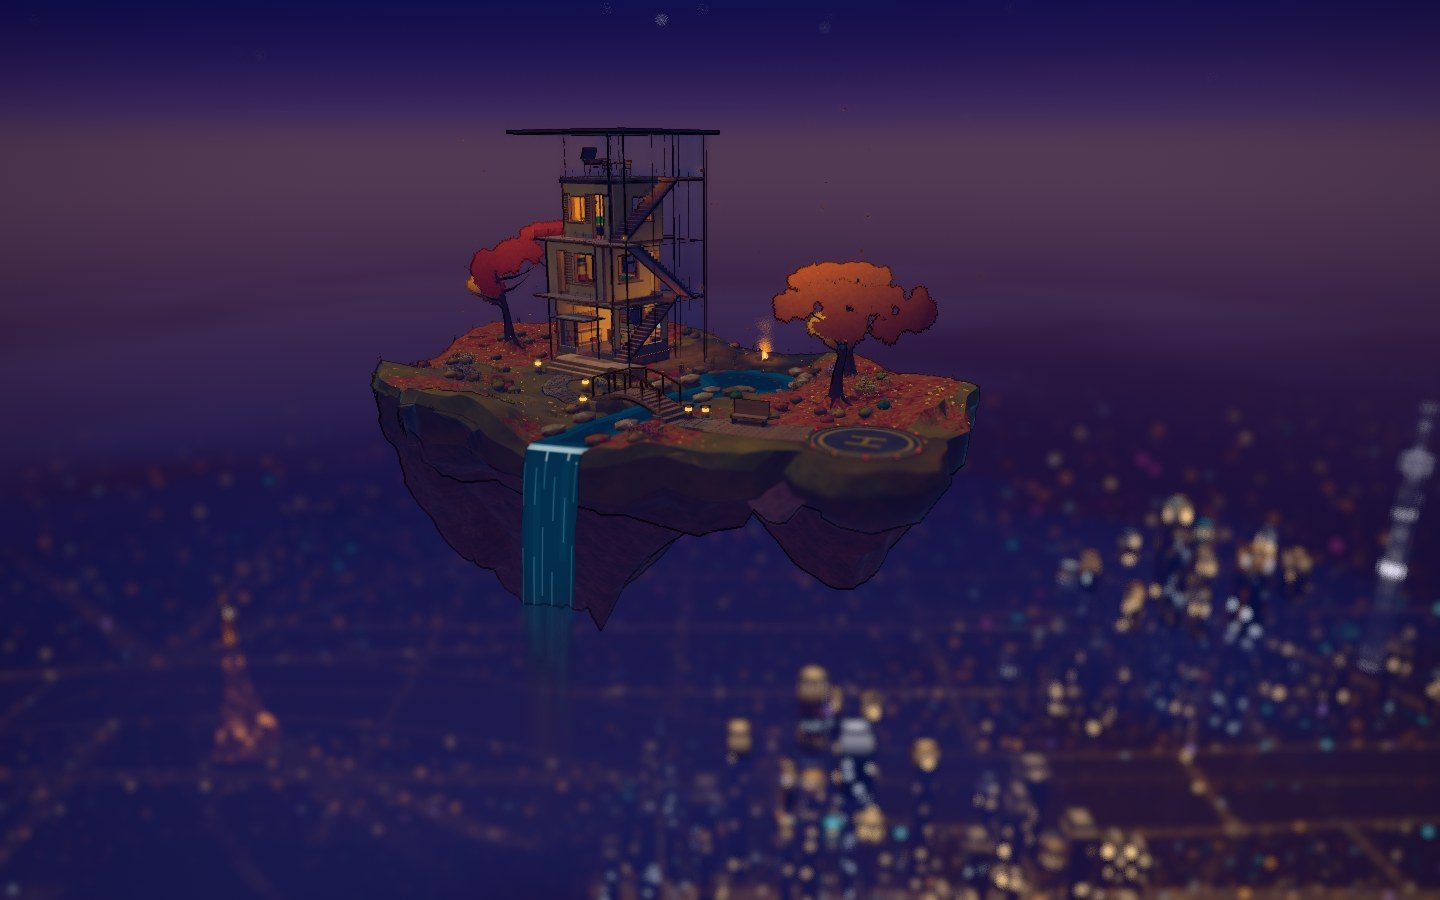
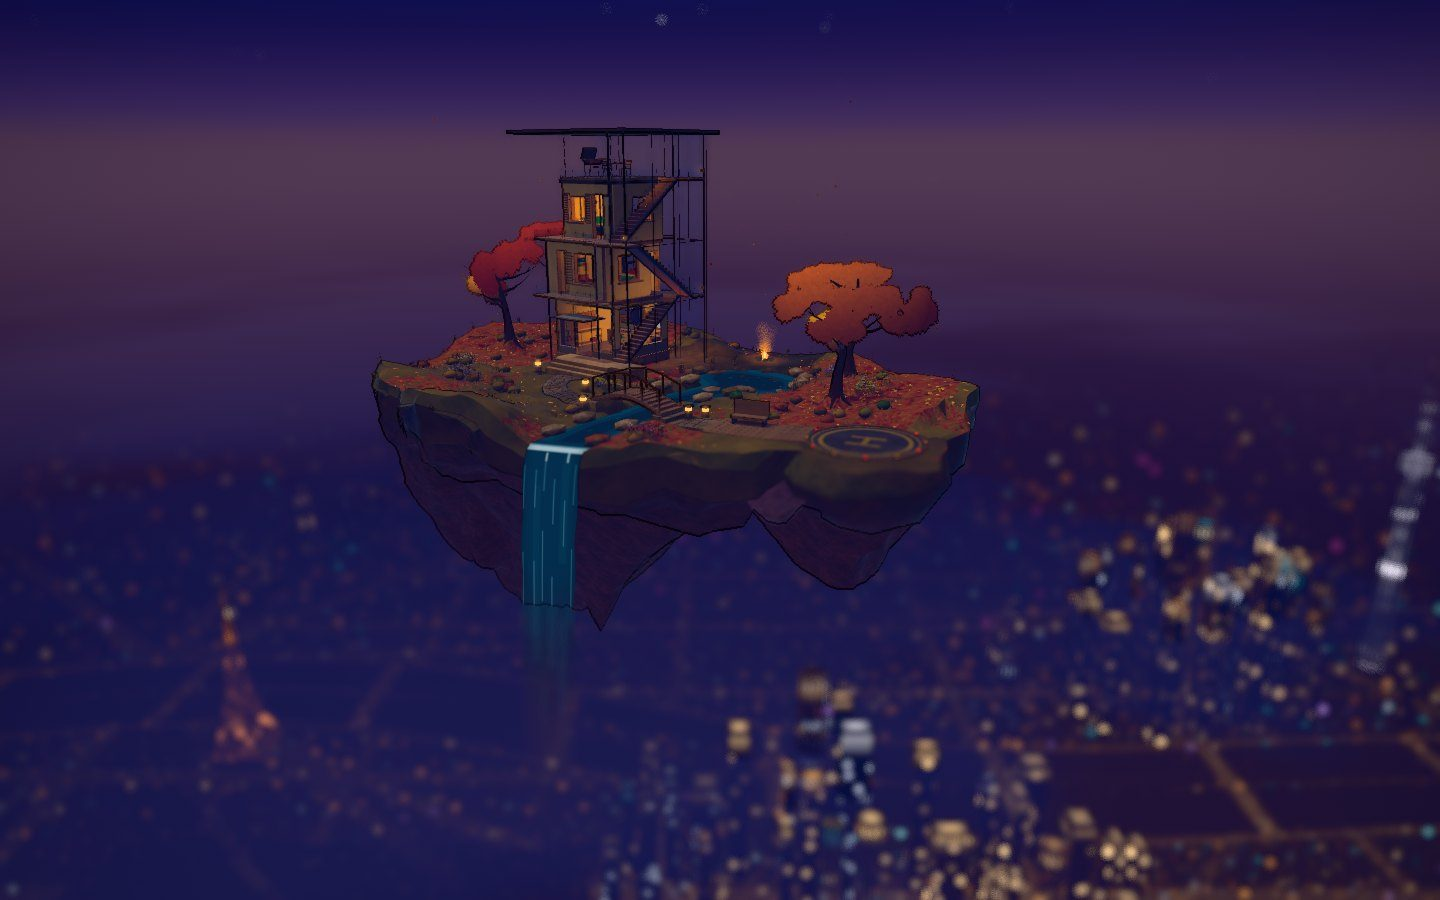
feat(city): cross the river with lit bridges every 300 m
The owner asked that the river has bridges. They were 14 m wide and
560 m apart, so they did not read from far above. The river is now 170 m
wide, the bridges are 24 m wide and 300 m apart, the water is darker, and
the avenue glow stops under the bridge glow, so the bridges are the
brightest lines over the dark river.

diff --git a/src/scene/aerie/city-map.js b/src/scene/aerie/city-map.js
@@ -25,9 +25,11 @@ export const GRID_NORMAL = new THREE.Vector2(-GRID.y, GRID.x)
 // through RIVER_ORIGIN, with two slow bends, and it has an island near u -100.
 const RIVER_ORIGIN = [-700, -1000]
 const RIVER_SHIFT = 125
-export const RIVER = 70
+export const RIVER = 85
 const ISLE = { u: -100, length: 260, width: 24 }
-const BRIDGE_STEP = 560
+// The bridges cross the river this far apart, as on the Seine, so the river reads as a dark
+// band crossed by lit lines from far above.
+const BRIDGE_STEP = 300
 
 // Districts as soft round blobs: centre, radius, light density, neon share and neon hue
 // (-1 magenta, 1 cyan). The neon share is the chance that a light in the blob is a neon sign.
@@ -122,8 +124,8 @@ void main() {
     float across = r.y - ( ${f1(RIVER_SHIFT)} + 120.0 * sin( r.x / 700.0 ) + 50.0 * sin( r.x / 260.0 + 1.0 ) );
     float isle = ${f1(ISLE.width)} * smoothstep( ${f1(ISLE.length)}, ${f1(ISLE.length * 0.7)}, abs( r.x - ${f1(ISLE.u)} ) );
     float water = lamp( abs( across ), ${f1(RIVER)} ) * ( 1.0 - lamp( abs( across ), isle ) );
-    float bridge = lamp( repeatDist( r.x, ${f1(BRIDGE_STEP)} ), 7.0 ) * lamp( abs( across ), ${f1(RIVER + 8)} );
-    float quay = lamp( abs( abs( across ) - ${f1(RIVER + 7)} ), 4.0 );
+    float bridge = lamp( repeatDist( r.x, ${f1(BRIDGE_STEP)} ), 12.0 ) * lamp( abs( across ), ${f1(RIVER + 10)} );
+    float quay = lamp( abs( abs( across ) - ${f1(RIVER + 7)} ), 5.0 );
 
     vec2 pk = abs( toGrid( p, ${v2(PARK.at)} ) );
     float park = smoothstep( ${f1(PARK.half[0] + 12)}, ${f1(PARK.half[0] - 12)}, pk.x ) * smoothstep( ${f1(PARK.half[1] + 12)}, ${f1(PARK.half[1] - 12)}, pk.y );
@@ -140,7 +142,8 @@ void main() {
         lines = max( lines, lamp( length( d ) * abs( sin( off ) ), 10.0 ) * smoothstep( ${f1(length)}, ${f1(length * 0.4)}, length( d ) ) );
         lines = max( lines, lamp( abs( length( d ) - 60.0 ), 7.0 ) );
     }`).join('\n    ')}
-    lines = max( lines * ${f1(look.avenue)}, max( quay, bridge ) );
+    // The avenues stop under the bridges, so the bridges read as the brightest lines over the dark river.
+    lines = max( min( lines * ${f1(look.avenue)}, 0.62 ), max( 0.8 * quay, bridge ) );
     density *= ( 1.0 - water * ( 1.0 - bridge ) ) * ( 1.0 - 0.92 * park );
     gl_FragColor = vec4( clamp( density, 0.0, 1.0 ), 0.5 + 0.5 * neon, clamp( lines, 0.0, 1.0 ), water * ( 1.0 - bridge ) );
 }

diff --git a/src/scene/aerie/city-backdrop.js b/src/scene/aerie/city-backdrop.js
@@ -171,8 +171,8 @@ void main() {
     col += uRail * shine * ( 2.0 * rail + 3.5 * trains * ( 1.0 - smoothstep( 1500.0, 3500.0, dist ) ) );
 
     // The river: dark water with the soft glow of the quay lamps along its banks.
-    vec3 water = vec3( 0.006, 0.008, 0.02 ) + ( GOLD + pool * share ) * shine * 0.6;
-    col = mix( col, water, map.a * 0.85 );
+    vec3 water = vec3( 0.004, 0.006, 0.018 ) + ( GOLD + pool * share ) * shine * 0.3;
+    col = mix( col, water, map.a * 0.95 );
 
     col = mix( col, hazeAt( normalize( vWorld - cameraPosition ) ), ${CITY_HAZE.toFixed(2)} );
     gl_FragColor = vec4( applyHaze( col, vWorld ), edge );
